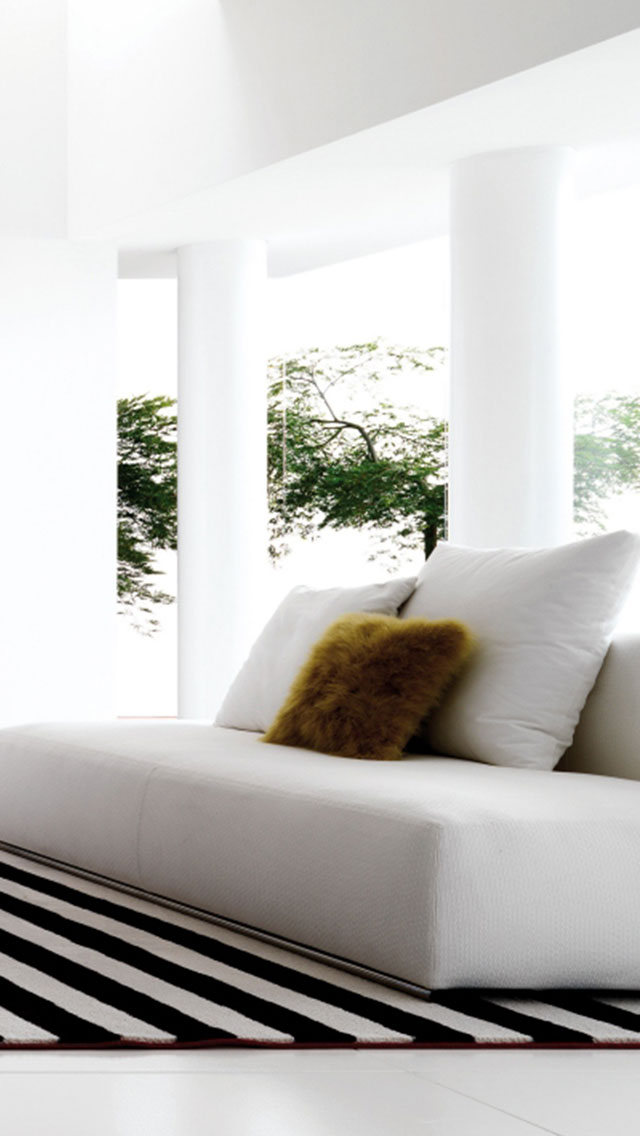
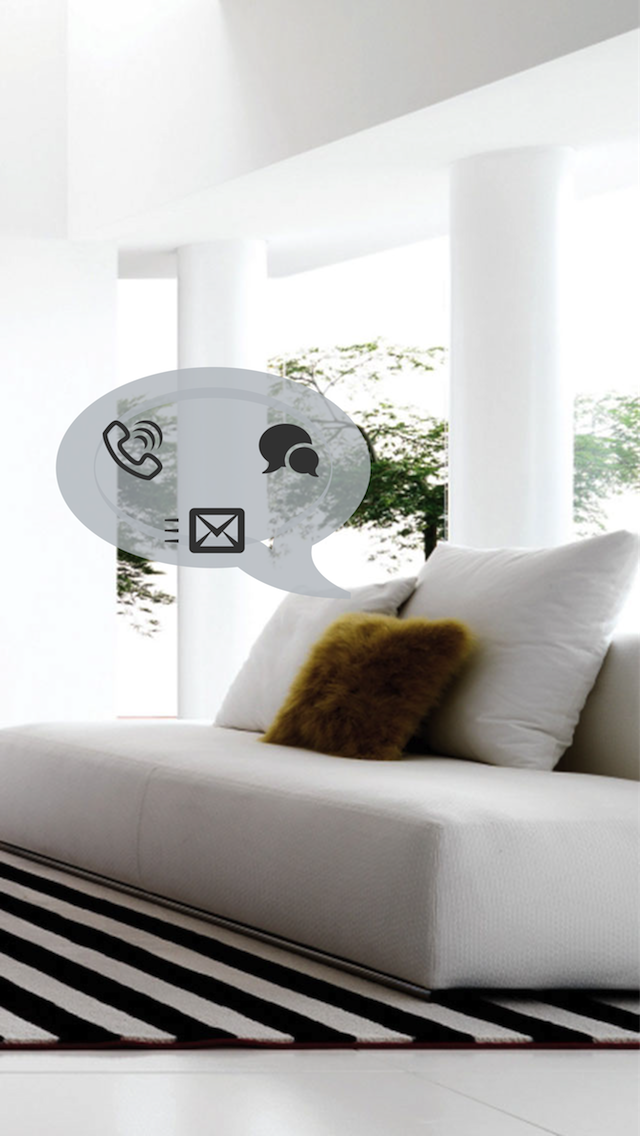
Updated ftue

Changed region(s): [[0.0625, 0.3081, 0.5938, 0.5238]]

diff --git a/HomeBuyer/HomeBuyer/Controller/kCATIntroAffordViewController.m b/HomeBuyer/HomeBuyer/Controller/kCATIntroAffordViewController.m
@@ -31,12 +31,12 @@
     backImage.image = [UIImage imageNamed:@"home-interior_01.jpg"];
     [self.view addSubview:backImage];
     
-    UIImageView* appName = [[UIImageView alloc] initWithFrame:CGRectMake(160, 46, 150, 53)];
+    UIImageView* appName = [[UIImageView alloc] initWithFrame:CGRectMake(160, 50, 150, 53)];
     appName.center = CGPointMake(self.view.center.x, appName.center.y);
     appName.image = [UIImage imageNamed:@"appname.png"];
     [self.view addSubview:appName];
     
-    UILabel* label = [[UILabel alloc] initWithFrame:CGRectMake(160, 151, 237, 40)];
+    UILabel* label = [[UILabel alloc] initWithFrame:CGRectMake(160, 130, 237, 40)];
     label.center = CGPointMake(self.view.center.x, label.center.y);
     label.numberOfLines = 2;
     label.textAlignment = NSTextAlignmentCenter;

diff --git a/HomeBuyer/HomeBuyer/Controller/kCATIntroRVBViewController.m b/HomeBuyer/HomeBuyer/Controller/kCATIntroRVBViewController.m
@@ -31,7 +31,7 @@
     backImage.image = [UIImage imageNamed:@"home-interior_04.jpg"];
     [self.view addSubview:backImage];
     
-    UILabel* label = [[UILabel alloc] initWithFrame:CGRectMake(160, 70, 250, 90)];
+    UILabel* label = [[UILabel alloc] initWithFrame:CGRectMake(160, 50, 250, 90)];
     label.center = CGPointMake(self.view.center.x, label.center.y);
     label.numberOfLines = 4;
     label.textAlignment = NSTextAlignmentCenter;
